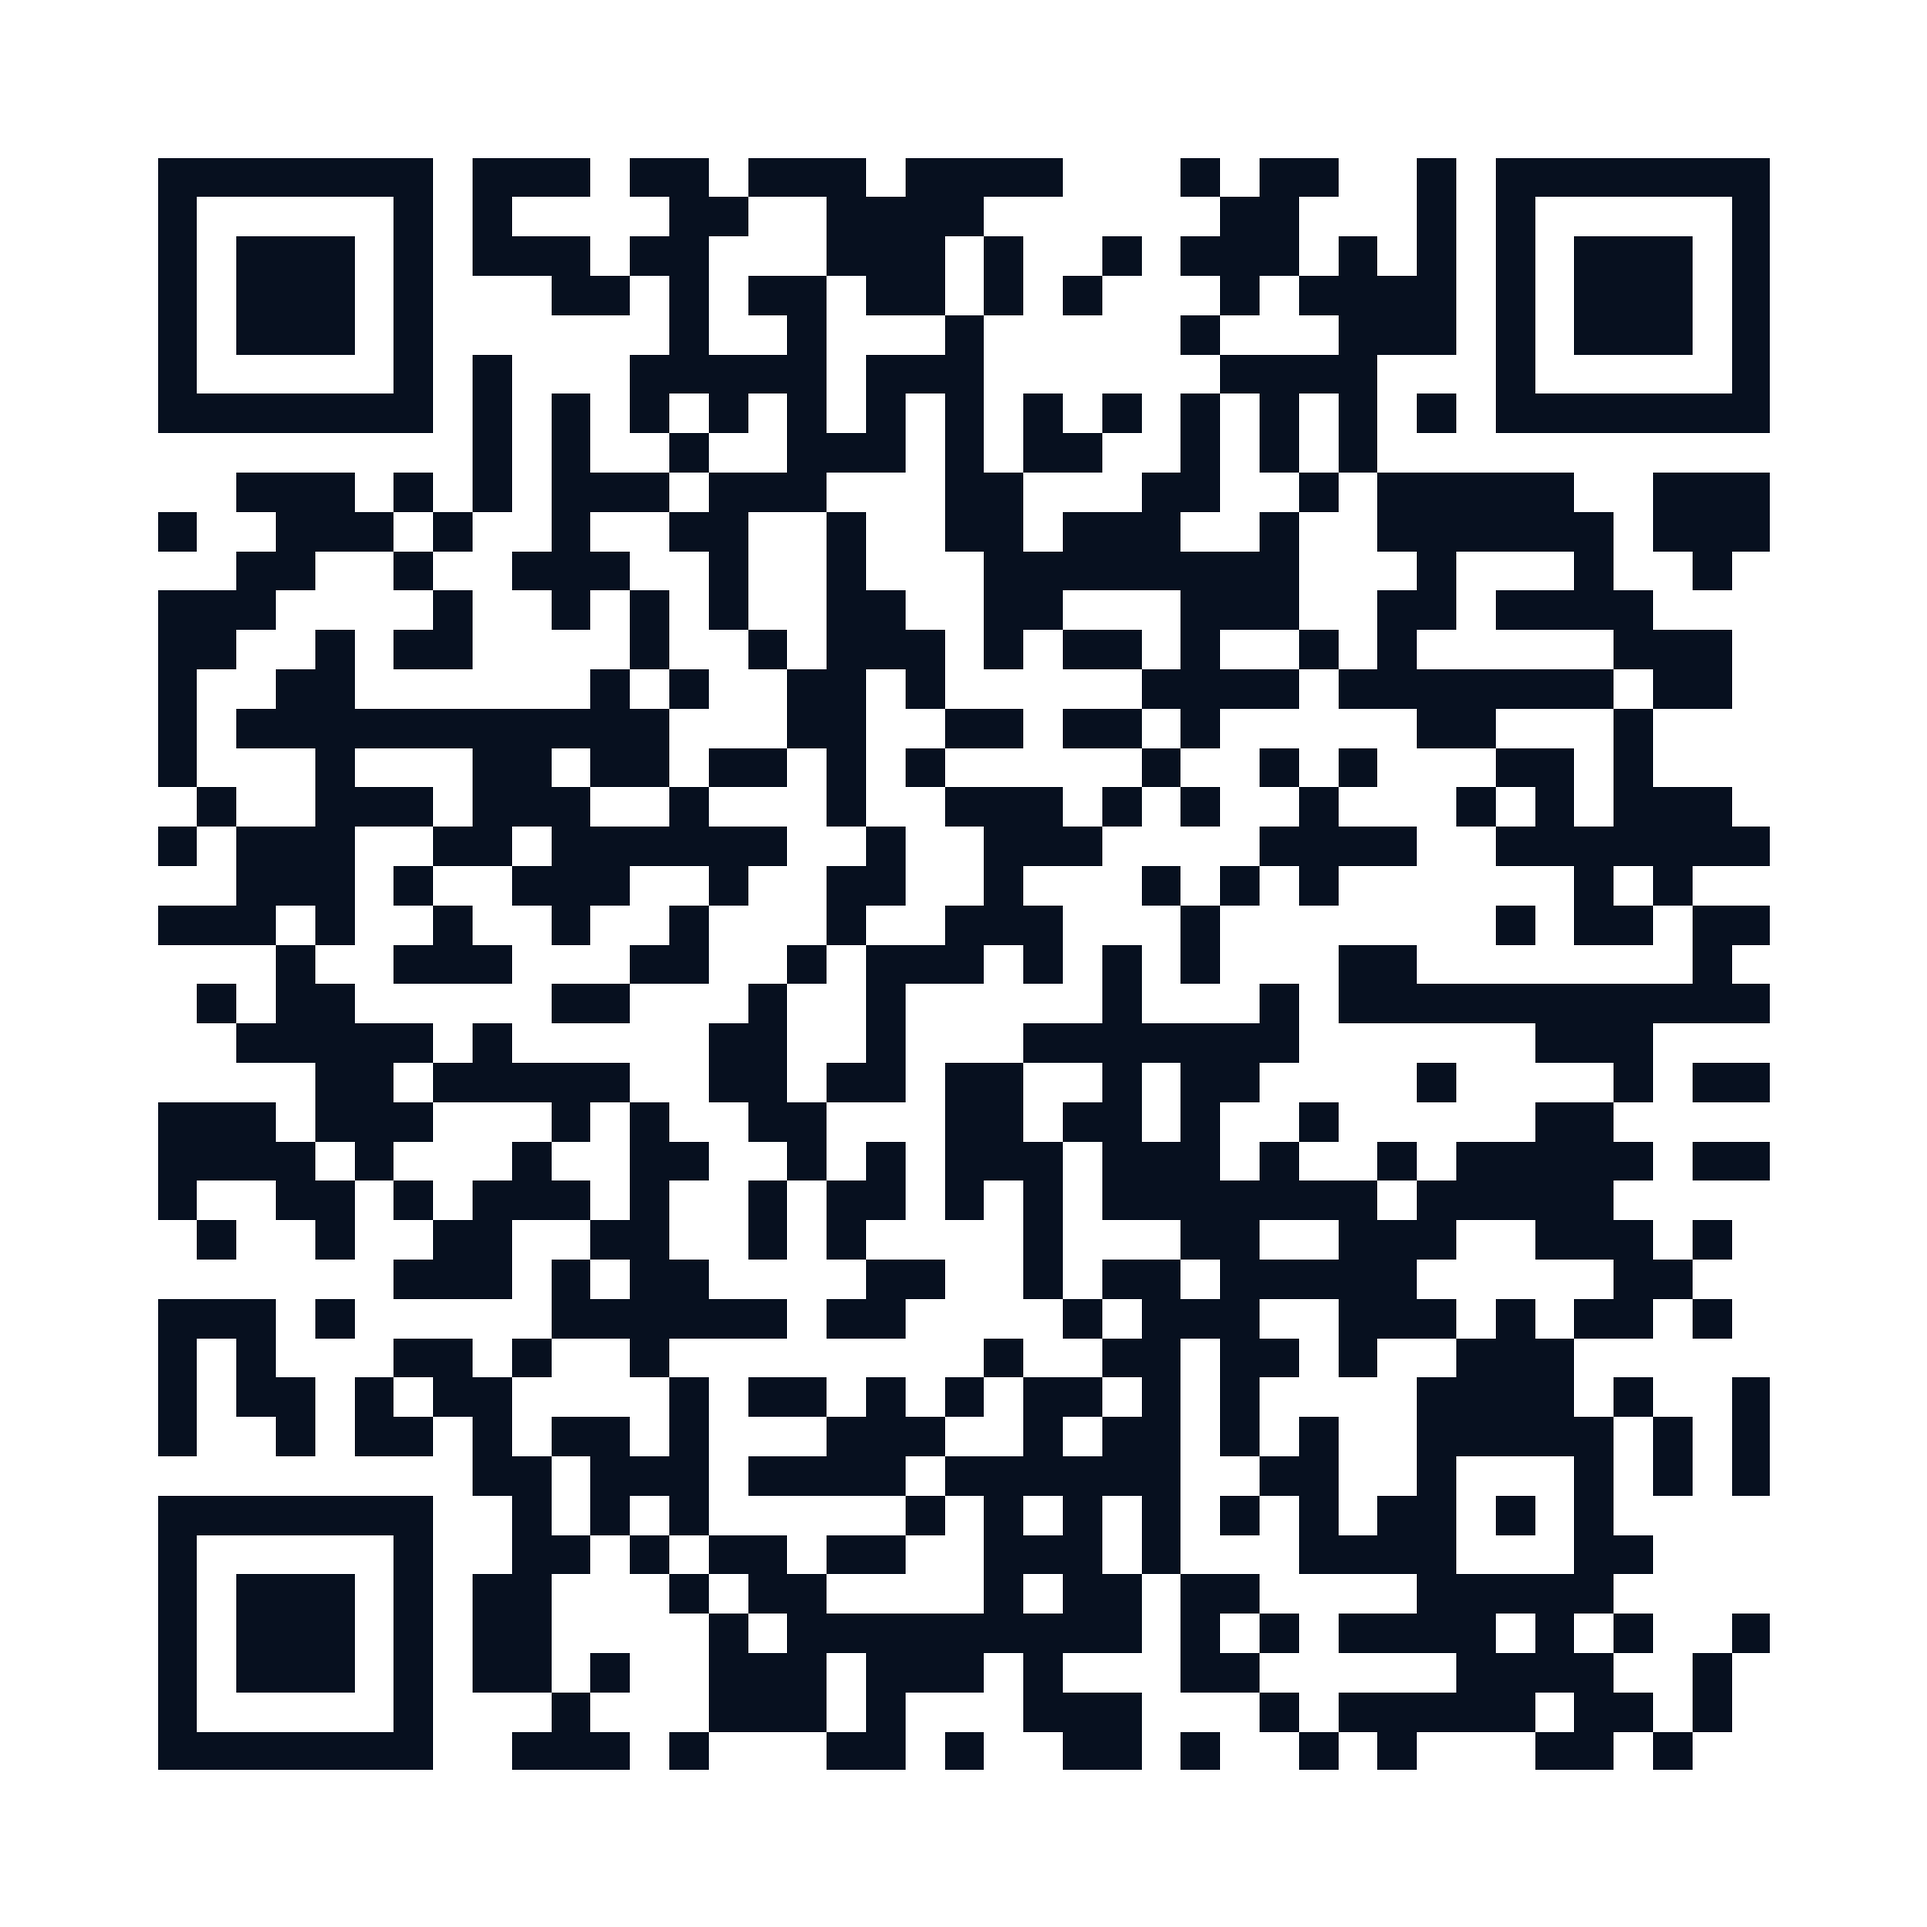
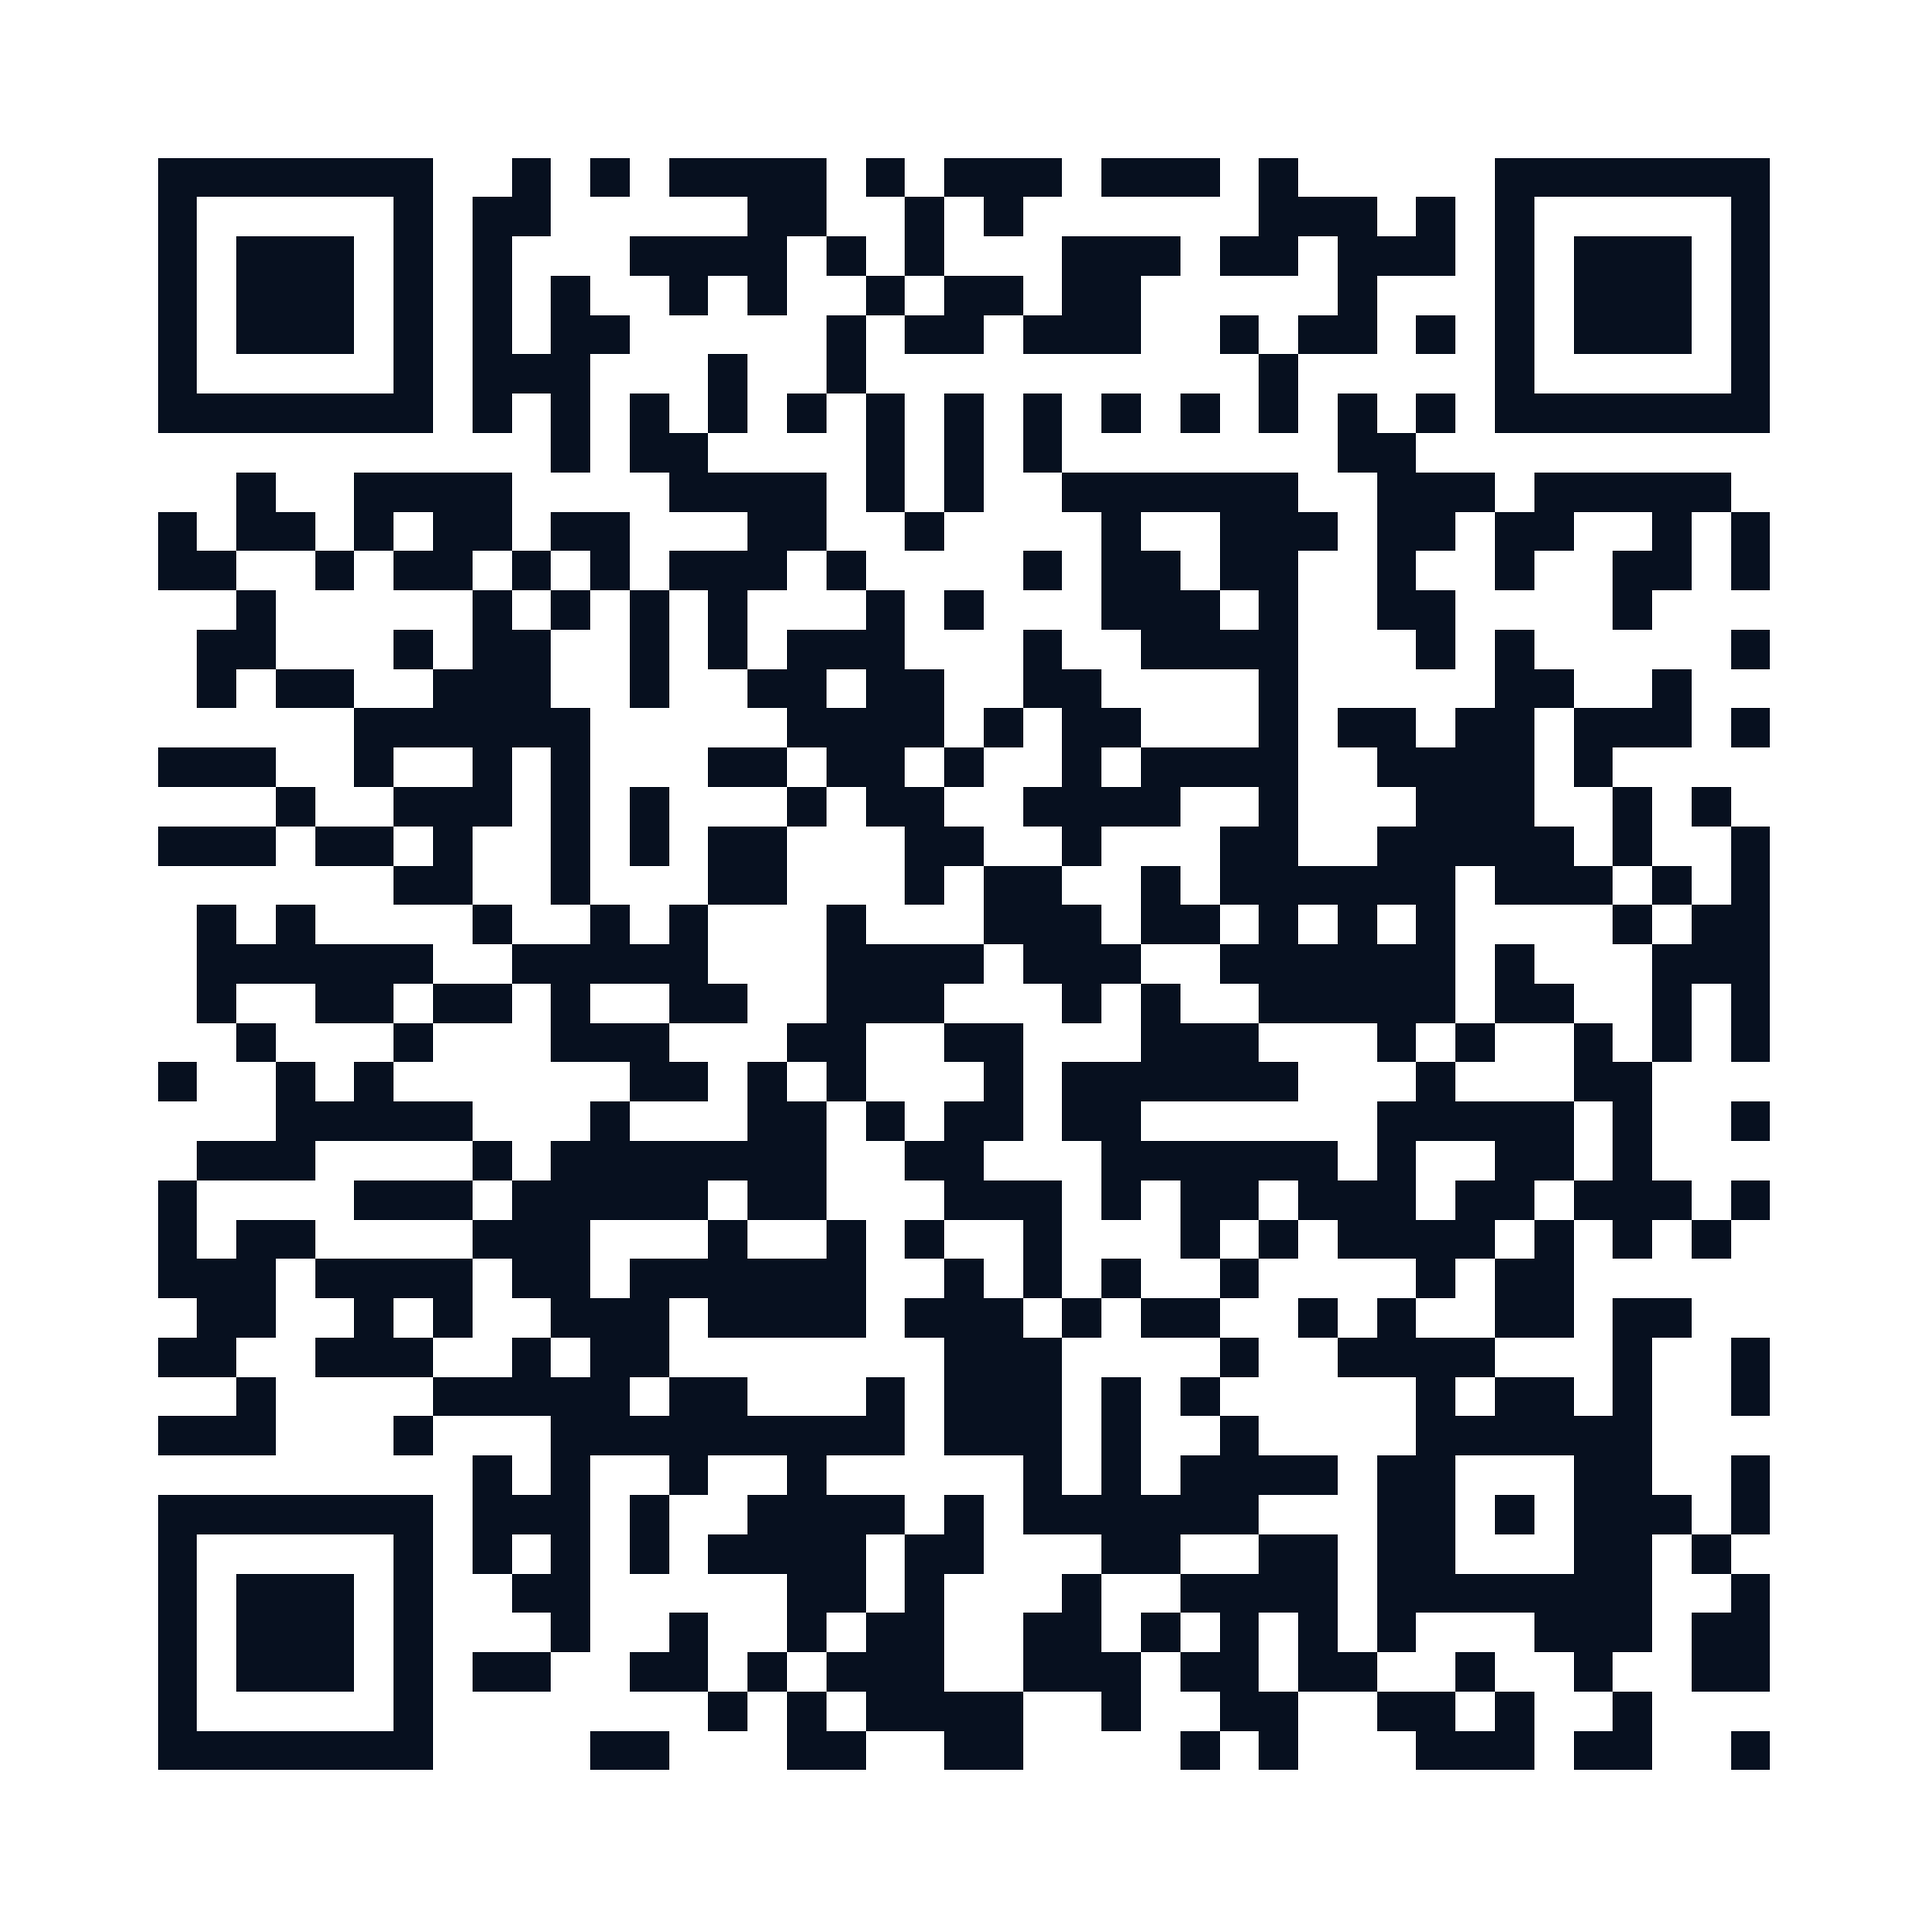
Actualiza las URLs públicas a anhetech.github.io
Reemplaza referencias antiguas en metadatos, enlaces, VCF y textos de compartir, y regenera el QR con la URL nueva.

Changed region(s): [[0.0616, 0.0616, 0.9233, 0.9233]]

diff --git a/index.html b/index.html
@@ -8,7 +8,7 @@
   <meta name="theme-color" content="#070b12">
   <meta name="color-scheme" content="dark">
   <meta name="author" content="ANHETech ERP™">
-  <link rel="canonical" href="https://rutamerito.github.io/ANHETech-Tarjeta-Digital/">
+  <link rel="canonical" href="https://anhetech.github.io/ANHETech-Tarjeta-Digital/">
   <link rel="icon" type="image/png" href="assets/images/logo-anhetech.png">
   <link rel="apple-touch-icon" href="assets/images/logo-anhetech.png">
 
@@ -17,12 +17,12 @@
   <meta property="og:site_name" content="ANHETech ERP™">
   <meta property="og:title" content="ANHETech ERP™ | Software y soluciones digitales para empresas">
   <meta property="og:description" content="Desarrollo web, aplicaciones, software a la medida, ERP y automatización. Contacto empresarial y perfil del CEO.">
-  <meta property="og:url" content="https://rutamerito.github.io/ANHETech-Tarjeta-Digital/">
-  <meta property="og:image" content="https://rutamerito.github.io/ANHETech-Tarjeta-Digital/assets/images/logo-anhetech.png">
+  <meta property="og:url" content="https://anhetech.github.io/ANHETech-Tarjeta-Digital/">
+  <meta property="og:image" content="https://anhetech.github.io/ANHETech-Tarjeta-Digital/assets/images/logo-anhetech.png">
   <meta name="twitter:card" content="summary_large_image">
   <meta name="twitter:title" content="ANHETech ERP™ | Software y soluciones digitales para empresas">
   <meta name="twitter:description" content="Desarrollo web, aplicaciones, software a la medida, ERP y automatización.">
-  <meta name="twitter:image" content="https://rutamerito.github.io/ANHETech-Tarjeta-Digital/assets/images/logo-anhetech.png">
+  <meta name="twitter:image" content="https://anhetech.github.io/ANHETech-Tarjeta-Digital/assets/images/logo-anhetech.png">
 
   <link rel="preconnect" href="https://fonts.googleapis.com">
   <link rel="preconnect" href="https://fonts.gstatic.com" crossorigin>
@@ -39,7 +39,7 @@
     "worksFor": {
       "@type": "Organization",
       "name": "ANHETech ERP™",
-      "url": "https://rutamerito.github.io/ANHETech-ERP/",
+      "url": "https://anhetech.github.io/ANHETech-ERP/",
       "email": "ANHETECHERP@gmail.com",
       "telephone": "+573182656464",
       "sameAs": [
@@ -49,7 +49,7 @@
     },
     "telephone": "+573187441999",
     "email": "ingjoseanca@gmail.com",
-    "url": "https://rutamerito.github.io/ANHETech-Tarjeta-Digital/",
+    "url": "https://anhetech.github.io/ANHETech-Tarjeta-Digital/",
     "sameAs": [
       "https://www.linkedin.com/in/fanor-jose-angulo-c-6a9a9626b"
     ]
@@ -118,7 +118,7 @@
 
       <section class="hero company" id="empresa" aria-labelledby="empresa-titulo">
         <header class="hero__top">
-          <a class="brand" href="https://rutamerito.github.io/ANHETech-ERP/" target="_blank" rel="noopener noreferrer" aria-label="ANHETech ERP™ — Tu idea, nuestra ingeniería">
+          <a class="brand" href="https://anhetech.github.io/ANHETech-ERP/" target="_blank" rel="noopener noreferrer" aria-label="ANHETech ERP™ — Tu idea, nuestra ingeniería">
             <span class="brand__plate">
               <img src="assets/images/logo-anhetech.png" alt="" width="1080" height="1080">
             </span>
@@ -172,7 +172,7 @@
                   </span>
                 </a>
 
-                <a class="share__item" href="https://wa.me/573182656464?text=Contacto%20profesional%20%E2%80%94%20ANHETech%20ERP%E2%84%A2%0A%0AIng.%20Fanor%20Jos%C3%A9%20Angulo%20C.%0ACEO%20%C2%B7%20Desarrollador%20principal%0AANHETech%20ERP%E2%84%A2%0A%0ATel%C3%A9fono%20%2F%20WhatsApp%20empresarial%3A%20%2B57%20318%20265%206464%0ACorreo%20empresarial%3A%20ANHETECHERP%40gmail.com%0A%0ACelular%20%2F%20WhatsApp%20personal%3A%20%2B57%20318%20744%201999%0ACorreo%20personal%3A%20ingjoseanca%40gmail.com%0A%0ASitio%20web%3A%20https%3A%2F%2Frutamerito.github.io%2FANHETech-ERP%2F%0ALinkedIn%20del%20CEO%3A%20https%3A%2F%2Fwww.linkedin.com%2Fin%2Ffanor-jose-angulo-c-6a9a9626b%0AFacebook%3A%20https%3A%2F%2Fwww.facebook.com%2FConcursa365%0ATikTok%3A%20https%3A%2F%2Fwww.tiktok.com%2F%40rutaalmerito%2Fvideo%2F7680729418909617416%0A%0ATarjeta%20digital%3A%20https%3A%2F%2Frutamerito.github.io%2FANHETech-Tarjeta-Digital%2F" target="_blank" rel="noopener noreferrer">
+                <a class="share__item" href="https://wa.me/573182656464?text=Contacto%20profesional%20%E2%80%94%20ANHETech%20ERP%E2%84%A2%0A%0AIng.%20Fanor%20Jos%C3%A9%20Angulo%20C.%0ACEO%20%C2%B7%20Desarrollador%20principal%0AANHETech%20ERP%E2%84%A2%0A%0ATel%C3%A9fono%20%2F%20WhatsApp%20empresarial%3A%20%2B57%20318%20265%206464%0ACorreo%20empresarial%3A%20ANHETECHERP%40gmail.com%0A%0ACelular%20%2F%20WhatsApp%20personal%3A%20%2B57%20318%20744%201999%0ACorreo%20personal%3A%20ingjoseanca%40gmail.com%0A%0ASitio%20web%3A%20https%3A%2F%2Fanhetech.github.io%2FANHETech-ERP%2F%0ALinkedIn%20del%20CEO%3A%20https%3A%2F%2Fwww.linkedin.com%2Fin%2Ffanor-jose-angulo-c-6a9a9626b%0AFacebook%3A%20https%3A%2F%2Fwww.facebook.com%2FConcursa365%0ATikTok%3A%20https%3A%2F%2Fwww.tiktok.com%2F%40rutaalmerito%2Fvideo%2F7680729418909617416%0A%0ATarjeta%20digital%3A%20https%3A%2F%2Fanhetech.github.io%2FANHETech-Tarjeta-Digital%2F" target="_blank" rel="noopener noreferrer">
                   <span class="share__item-icon share__item-icon--wa">
                     <svg class="icon" aria-hidden="true"><use href="#icon-whatsapp"></use></svg>
                   </span>
@@ -182,7 +182,7 @@
                   </span>
                 </a>
 
-                <a class="share__item" href="https://wa.me/573187441999?text=Contacto%20profesional%20%E2%80%94%20ANHETech%20ERP%E2%84%A2%0A%0AIng.%20Fanor%20Jos%C3%A9%20Angulo%20C.%0ACEO%20%C2%B7%20Desarrollador%20principal%0AANHETech%20ERP%E2%84%A2%0A%0ATel%C3%A9fono%20%2F%20WhatsApp%20empresarial%3A%20%2B57%20318%20265%206464%0ACorreo%20empresarial%3A%20ANHETECHERP%40gmail.com%0A%0ACelular%20%2F%20WhatsApp%20personal%3A%20%2B57%20318%20744%201999%0ACorreo%20personal%3A%20ingjoseanca%40gmail.com%0A%0ASitio%20web%3A%20https%3A%2F%2Frutamerito.github.io%2FANHETech-ERP%2F%0ALinkedIn%20del%20CEO%3A%20https%3A%2F%2Fwww.linkedin.com%2Fin%2Ffanor-jose-angulo-c-6a9a9626b%0AFacebook%3A%20https%3A%2F%2Fwww.facebook.com%2FConcursa365%0ATikTok%3A%20https%3A%2F%2Fwww.tiktok.com%2F%40rutaalmerito%2Fvideo%2F7680729418909617416%0A%0ATarjeta%20digital%3A%20https%3A%2F%2Frutamerito.github.io%2FANHETech-Tarjeta-Digital%2F" target="_blank" rel="noopener noreferrer">
+                <a class="share__item" href="https://wa.me/573187441999?text=Contacto%20profesional%20%E2%80%94%20ANHETech%20ERP%E2%84%A2%0A%0AIng.%20Fanor%20Jos%C3%A9%20Angulo%20C.%0ACEO%20%C2%B7%20Desarrollador%20principal%0AANHETech%20ERP%E2%84%A2%0A%0ATel%C3%A9fono%20%2F%20WhatsApp%20empresarial%3A%20%2B57%20318%20265%206464%0ACorreo%20empresarial%3A%20ANHETECHERP%40gmail.com%0A%0ACelular%20%2F%20WhatsApp%20personal%3A%20%2B57%20318%20744%201999%0ACorreo%20personal%3A%20ingjoseanca%40gmail.com%0A%0ASitio%20web%3A%20https%3A%2F%2Fanhetech.github.io%2FANHETech-ERP%2F%0ALinkedIn%20del%20CEO%3A%20https%3A%2F%2Fwww.linkedin.com%2Fin%2Ffanor-jose-angulo-c-6a9a9626b%0AFacebook%3A%20https%3A%2F%2Fwww.facebook.com%2FConcursa365%0ATikTok%3A%20https%3A%2F%2Fwww.tiktok.com%2F%40rutaalmerito%2Fvideo%2F7680729418909617416%0A%0ATarjeta%20digital%3A%20https%3A%2F%2Fanhetech.github.io%2FANHETech-Tarjeta-Digital%2F" target="_blank" rel="noopener noreferrer">
                   <span class="share__item-icon share__item-icon--wa">
                     <svg class="icon" aria-hidden="true"><use href="#icon-whatsapp"></use></svg>
                   </span>
@@ -253,10 +253,10 @@
             <div class="contact-row">
               <div class="contact-row__info">
                 <span class="contact-row__label">Sitio web</span>
-                <a class="contact-row__value contact-row__value--mail" href="https://rutamerito.github.io/ANHETech-ERP/" target="_blank" rel="noopener noreferrer">rutamerito.github.io/ANHETech-ERP/</a>
+                <a class="contact-row__value contact-row__value--mail" href="https://anhetech.github.io/ANHETech-ERP/" target="_blank" rel="noopener noreferrer">anhetech.github.io/ANHETech-ERP/</a>
               </div>
               <div class="contact-row__actions">
-                <a class="mini mini--ghost" href="https://rutamerito.github.io/ANHETech-ERP/" target="_blank" rel="noopener noreferrer" aria-label="Abrir el sitio web empresarial" title="Sitio web empresarial">
+                <a class="mini mini--ghost" href="https://anhetech.github.io/ANHETech-ERP/" target="_blank" rel="noopener noreferrer" aria-label="Abrir el sitio web empresarial" title="Sitio web empresarial">
                   <svg class="icon" aria-hidden="true"><use href="#icon-globe"></use></svg>
                 </a>
               </div>
@@ -311,7 +311,7 @@
             <p class="overline">Código QR oficial</p>
             <h2 id="qr-titulo">Escanea y comparte</h2>
             <p>Abre esta tarjeta digital desde cualquier teléfono o compártela en una reunión.</p>
-            <a class="qr-block__url" href="https://rutamerito.github.io/ANHETech-Tarjeta-Digital/">rutamerito.github.io/ANHETech-Tarjeta-Digital/</a>
+            <a class="qr-block__url" href="https://anhetech.github.io/ANHETech-Tarjeta-Digital/">anhetech.github.io/ANHETech-Tarjeta-Digital/</a>
           </div>
         </div>
       </section>

diff --git a/script.js b/script.js
@@ -11,12 +11,12 @@ Correo empresarial: ANHETECHERP@gmail.com
 Celular / WhatsApp personal: +57 318 744 1999
 Correo personal: ingjoseanca@gmail.com
 
-Sitio web: https://rutamerito.github.io/ANHETech-ERP/
+Sitio web: https://anhetech.github.io/ANHETech-ERP/
 LinkedIn del CEO: https://www.linkedin.com/in/fanor-jose-angulo-c-6a9a9626b
 Facebook: https://www.facebook.com/Concursa365
 TikTok: https://www.tiktok.com/@rutaalmerito/video/7680729418909617416
 
-Tarjeta digital: https://rutamerito.github.io/ANHETech-Tarjeta-Digital/`;
+Tarjeta digital: https://anhetech.github.io/ANHETech-Tarjeta-Digital/`;
 
   const copyButton = document.querySelector("[data-copy-contact]");
   const status = document.getElementById("share-status");

diff --git a/README.md b/README.md
@@ -7,7 +7,7 @@ La tarjeta se organiza en tres secciones, en este orden: empresa, código QR y p
 
 ## Enlace público
 
-https://rutamerito.github.io/ANHETech-Tarjeta-Digital/
+https://anhetech.github.io/ANHETech-Tarjeta-Digital/
 
 ## Archivos del proyecto
 
@@ -44,7 +44,7 @@ Cada vez que se sube un cambio a `main`, GitHub actualiza la página en unos min
 - **WhatsApp personal:** https://wa.me/573187441999
 - **Correo corporativo:** ANHETECHERP@gmail.com
 - **Correo personal:** ingjoseanca@gmail.com
-- **Sitio web:** https://rutamerito.github.io/ANHETech-ERP/
+- **Sitio web:** https://anhetech.github.io/ANHETech-ERP/
 - **LinkedIn del CEO:** https://www.linkedin.com/in/fanor-jose-angulo-c-6a9a9626b
 - **Facebook:** https://www.facebook.com/Concursa365
 - **TikTok:** https://www.tiktok.com/@rutaalmerito/video/7680729418909617416
@@ -71,7 +71,7 @@ El logotipo utilizado es `Logo_transparente.png`, tomado en modo de solo lectura
 El archivo `QR_ANHETech_Tarjeta_Digital.png` contiene exactamente esta dirección:
 
 ```
-https://rutamerito.github.io/ANHETech-Tarjeta-Digital/
+https://anhetech.github.io/ANHETech-Tarjeta-Digital/
 ```
 
 Puede imprimirse o compartirse digitalmente. Al escanearlo se abre esta tarjeta.
